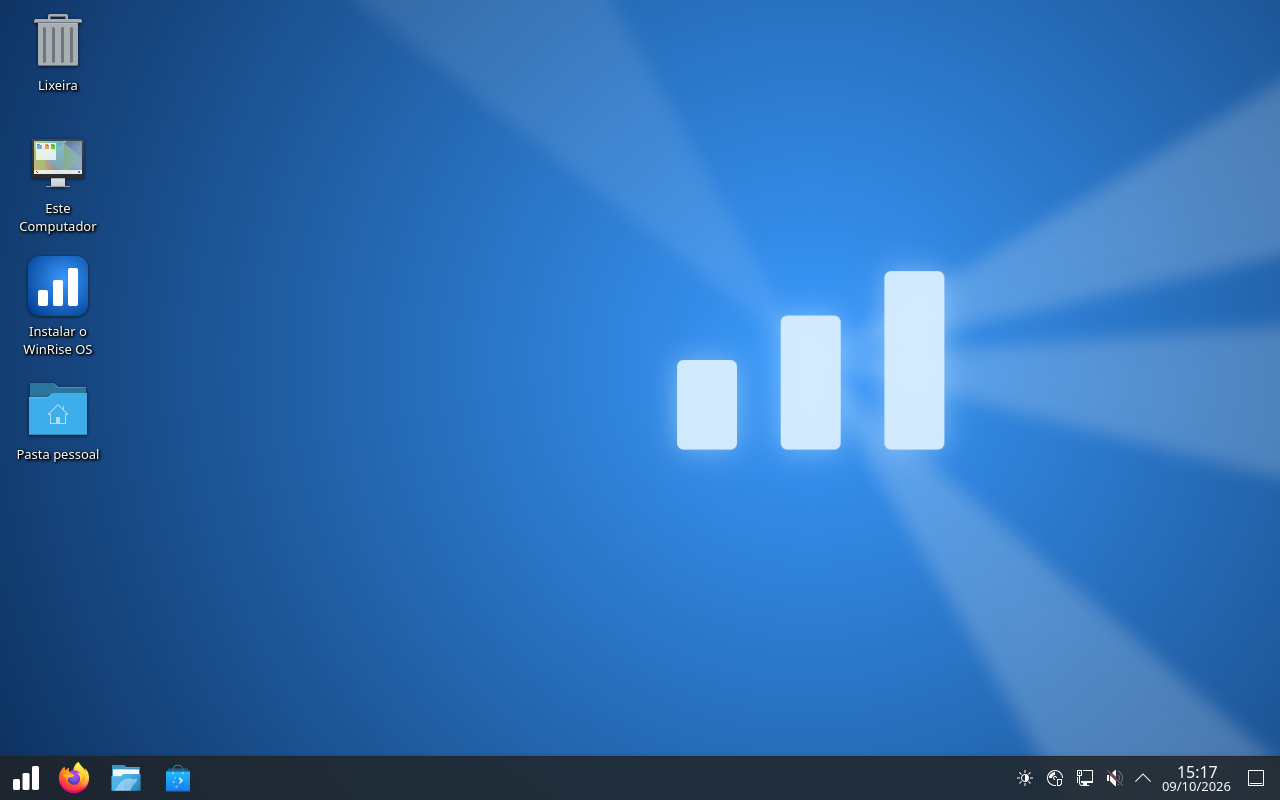
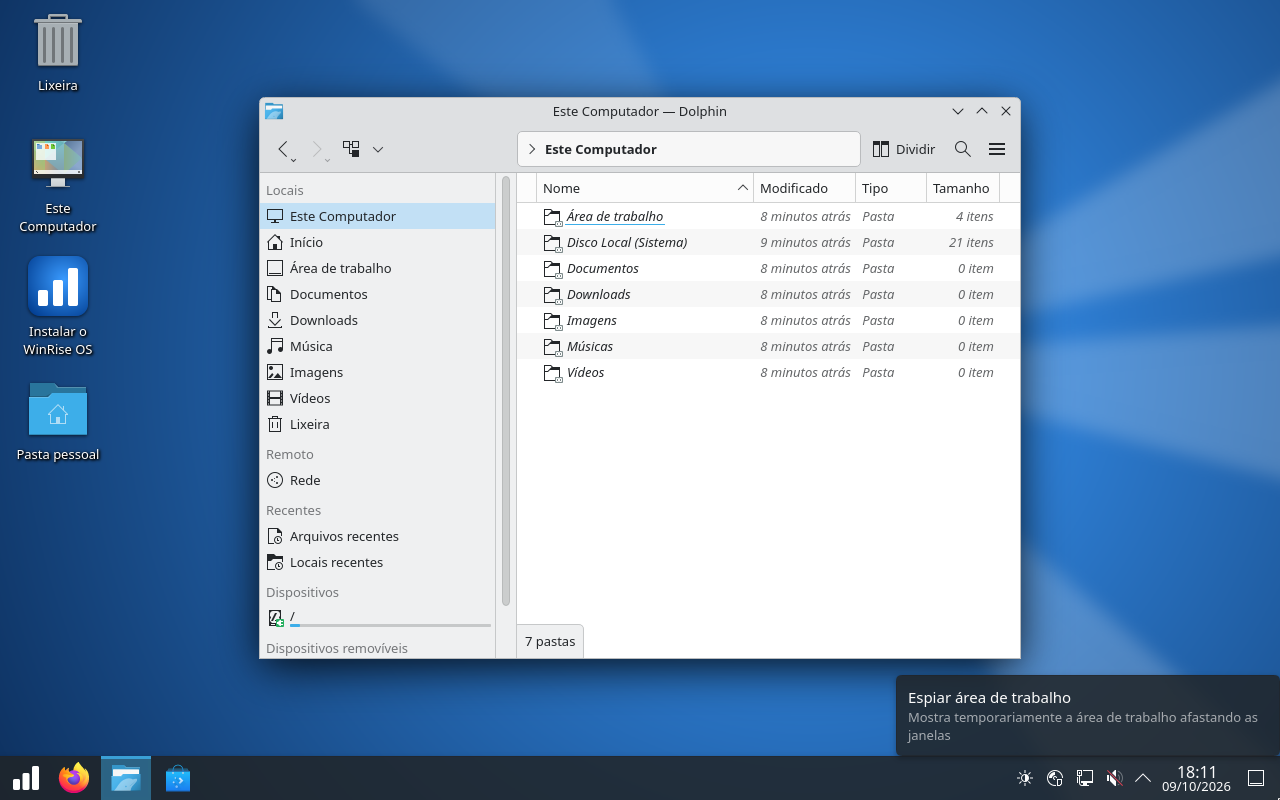
Capturas novas (build limpo), instalador no README, dicas de build e Ctrl+Shift+Esc via /usr/share/kglobalaccel

diff --git a/README.md b/README.md
@@ -13,6 +13,10 @@ duplo clique e os mesmos atalhos de teclado.
 |---|---|---|
 | ![Menu Iniciar](docs/winrise-startmenu.png) | ![Dolphin](docs/winrise-dolphin.png) | ![Este Computador](docs/winrise-este-computador.png) |
 
+| Instalador (Calamares com a identidade WinRise) |
+|---|
+| ![Instalador WinRise OS](docs/winrise-calamares.png) |
+
 ## Filosofia
 
 - **Visual do Windows 10**: barra de tarefas escura e única embaixo, botão Iniciar à esquerda,
@@ -94,6 +98,13 @@ make run-uefi # ou: make run-bios — testa no QEMU
 ```
 
 Para recomeçar do zero: `make clean` (mantém o cache de pacotes) ou `make distclean`.
+
+Dicas para máquinas com pouca RAM ou rede instável:
+
+- Limite o `mksquashfs`: `make iso SQUASH_OPTS="-mem 1G -processors 2"`.
+- O apt já tenta de novo automaticamente (`Acquire::Retries`) quando o espelho Debian
+  devolve erros temporários (500); se ainda assim falhar no fim, rode `make iso` de novo.
+- Faça o build num disco local (ex.: `/var/tmp`), fora de pastas sincronizadas.
 
 ## Como gravar no pendrive
 
